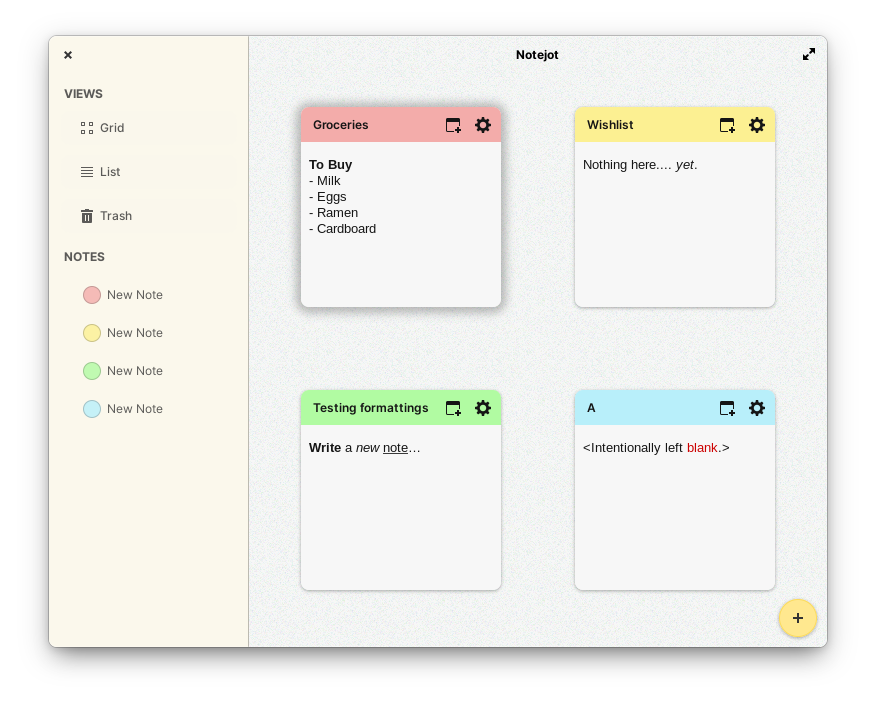
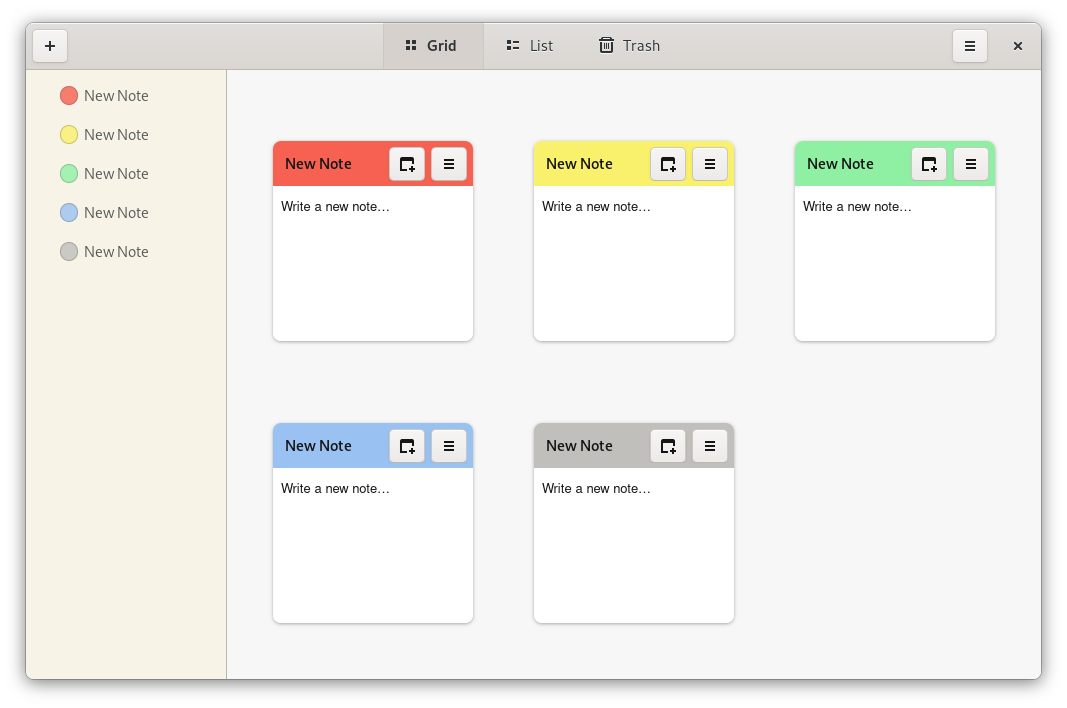
Notejot 2.0 - GNOME HIG

diff --git a/data/app.css b/data/app.css
@@ -3,77 +3,38 @@
 @define-color accent_color_500 #FFE16B;
 @define-color accent_color_300 #FFE16B;
 
-window .csd:not(.popup):not(.menu) .titlebar,
-window:not(.popup):not(.menu) > decoration,
-window.unified,
-window.unified decoration,
-window.unified decoration-overlay {
-  border-radius: 8px;
-}
-
-.title {
-    font-weight: 700;
-}
-
-.frame {
-    border: none;
-}
-
-.destructive-text {
-    color: #D07070;
-    border: 1px solid transparent;
-}
-
-.destructive-text:hover {
-    color: #151515;
-    background: alpha(#D07070, 0.25);
-    border: 1px solid #D07070;
-}
-
-.destructive-button:hover {
-    color: #D07070;
-}
-
-.rotated > widget > box > image {
-    -gtk-icon-transform: rotate(90deg);
-}
-
-.notejot-sbutton {
-    margin-right: 5px;
-}
-
 .color-button radio,
 .color-button radio:checked {
    padding: 4px;
    -gtk-icon-shadow: none;
 }
 .color-red radio {
-    background: #F3ACAA;
-    color: #F3ACAA;
+    background: #f66151;
+    color: #f66151;
 }
 .color-orange radio {
-    background: #FFC78B;
-    color: #FFC78B;
+    background: #ffbe6f;
+    color: #ffbe6f;
 }
 .color-yellow radio {
-    background: #FCF092;
-    color: #FCF092;
+    background: #f9f06b;
+    color: #f9f06b;
 }
 .color-green radio {
-    background: #B1FBA2;
-    color: #B1FBA2;
+    background: #8ff0a4;
+    color: #8ff0a4;
 }
 .color-blue radio {
-    background: #B8EFFA;
-    color: #B8EFFA;
+    background: #99c1f1;
+    color: #99c1f1;
 }
 .color-violet radio {
-    background: #C0C0F5;
-    color: #C0C0F5;
+    background: #dc8add;
+    color: #dc8add;
 }
 .color-neutral radio {
-    background: #DADADA;
-    color: #DADADA;
+    background: #c0bfbc;
+    color: #c0bfbc;
 }
 
 .notejot-tview {
